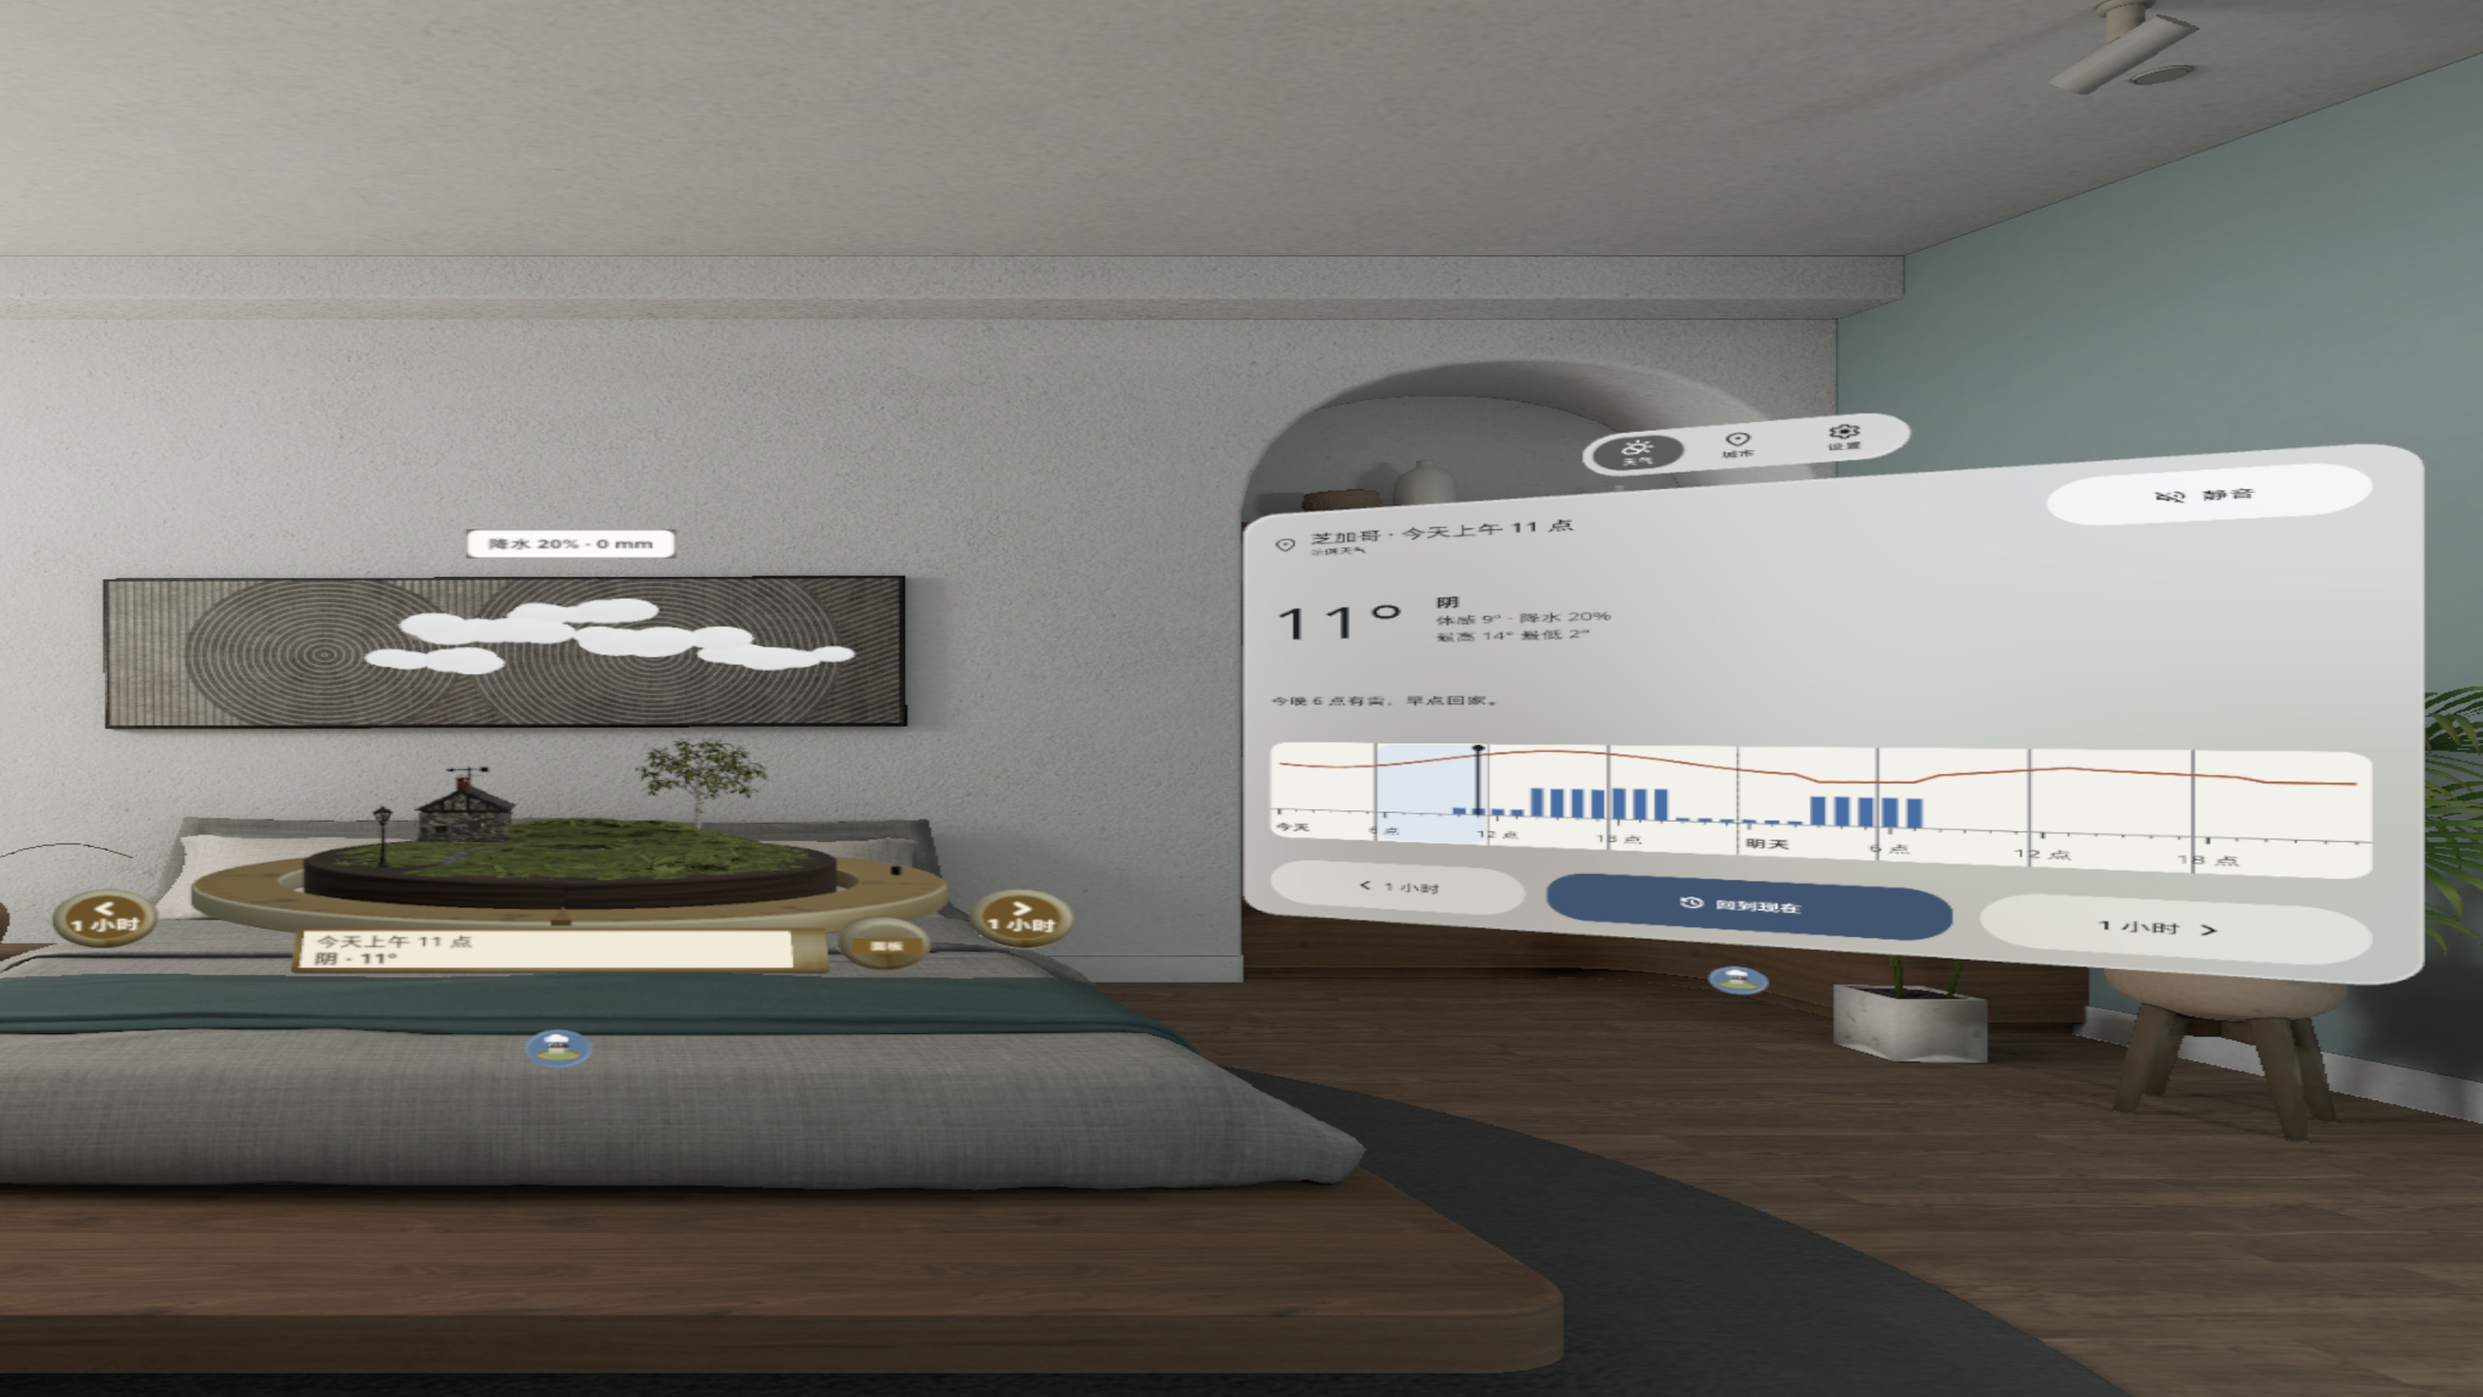
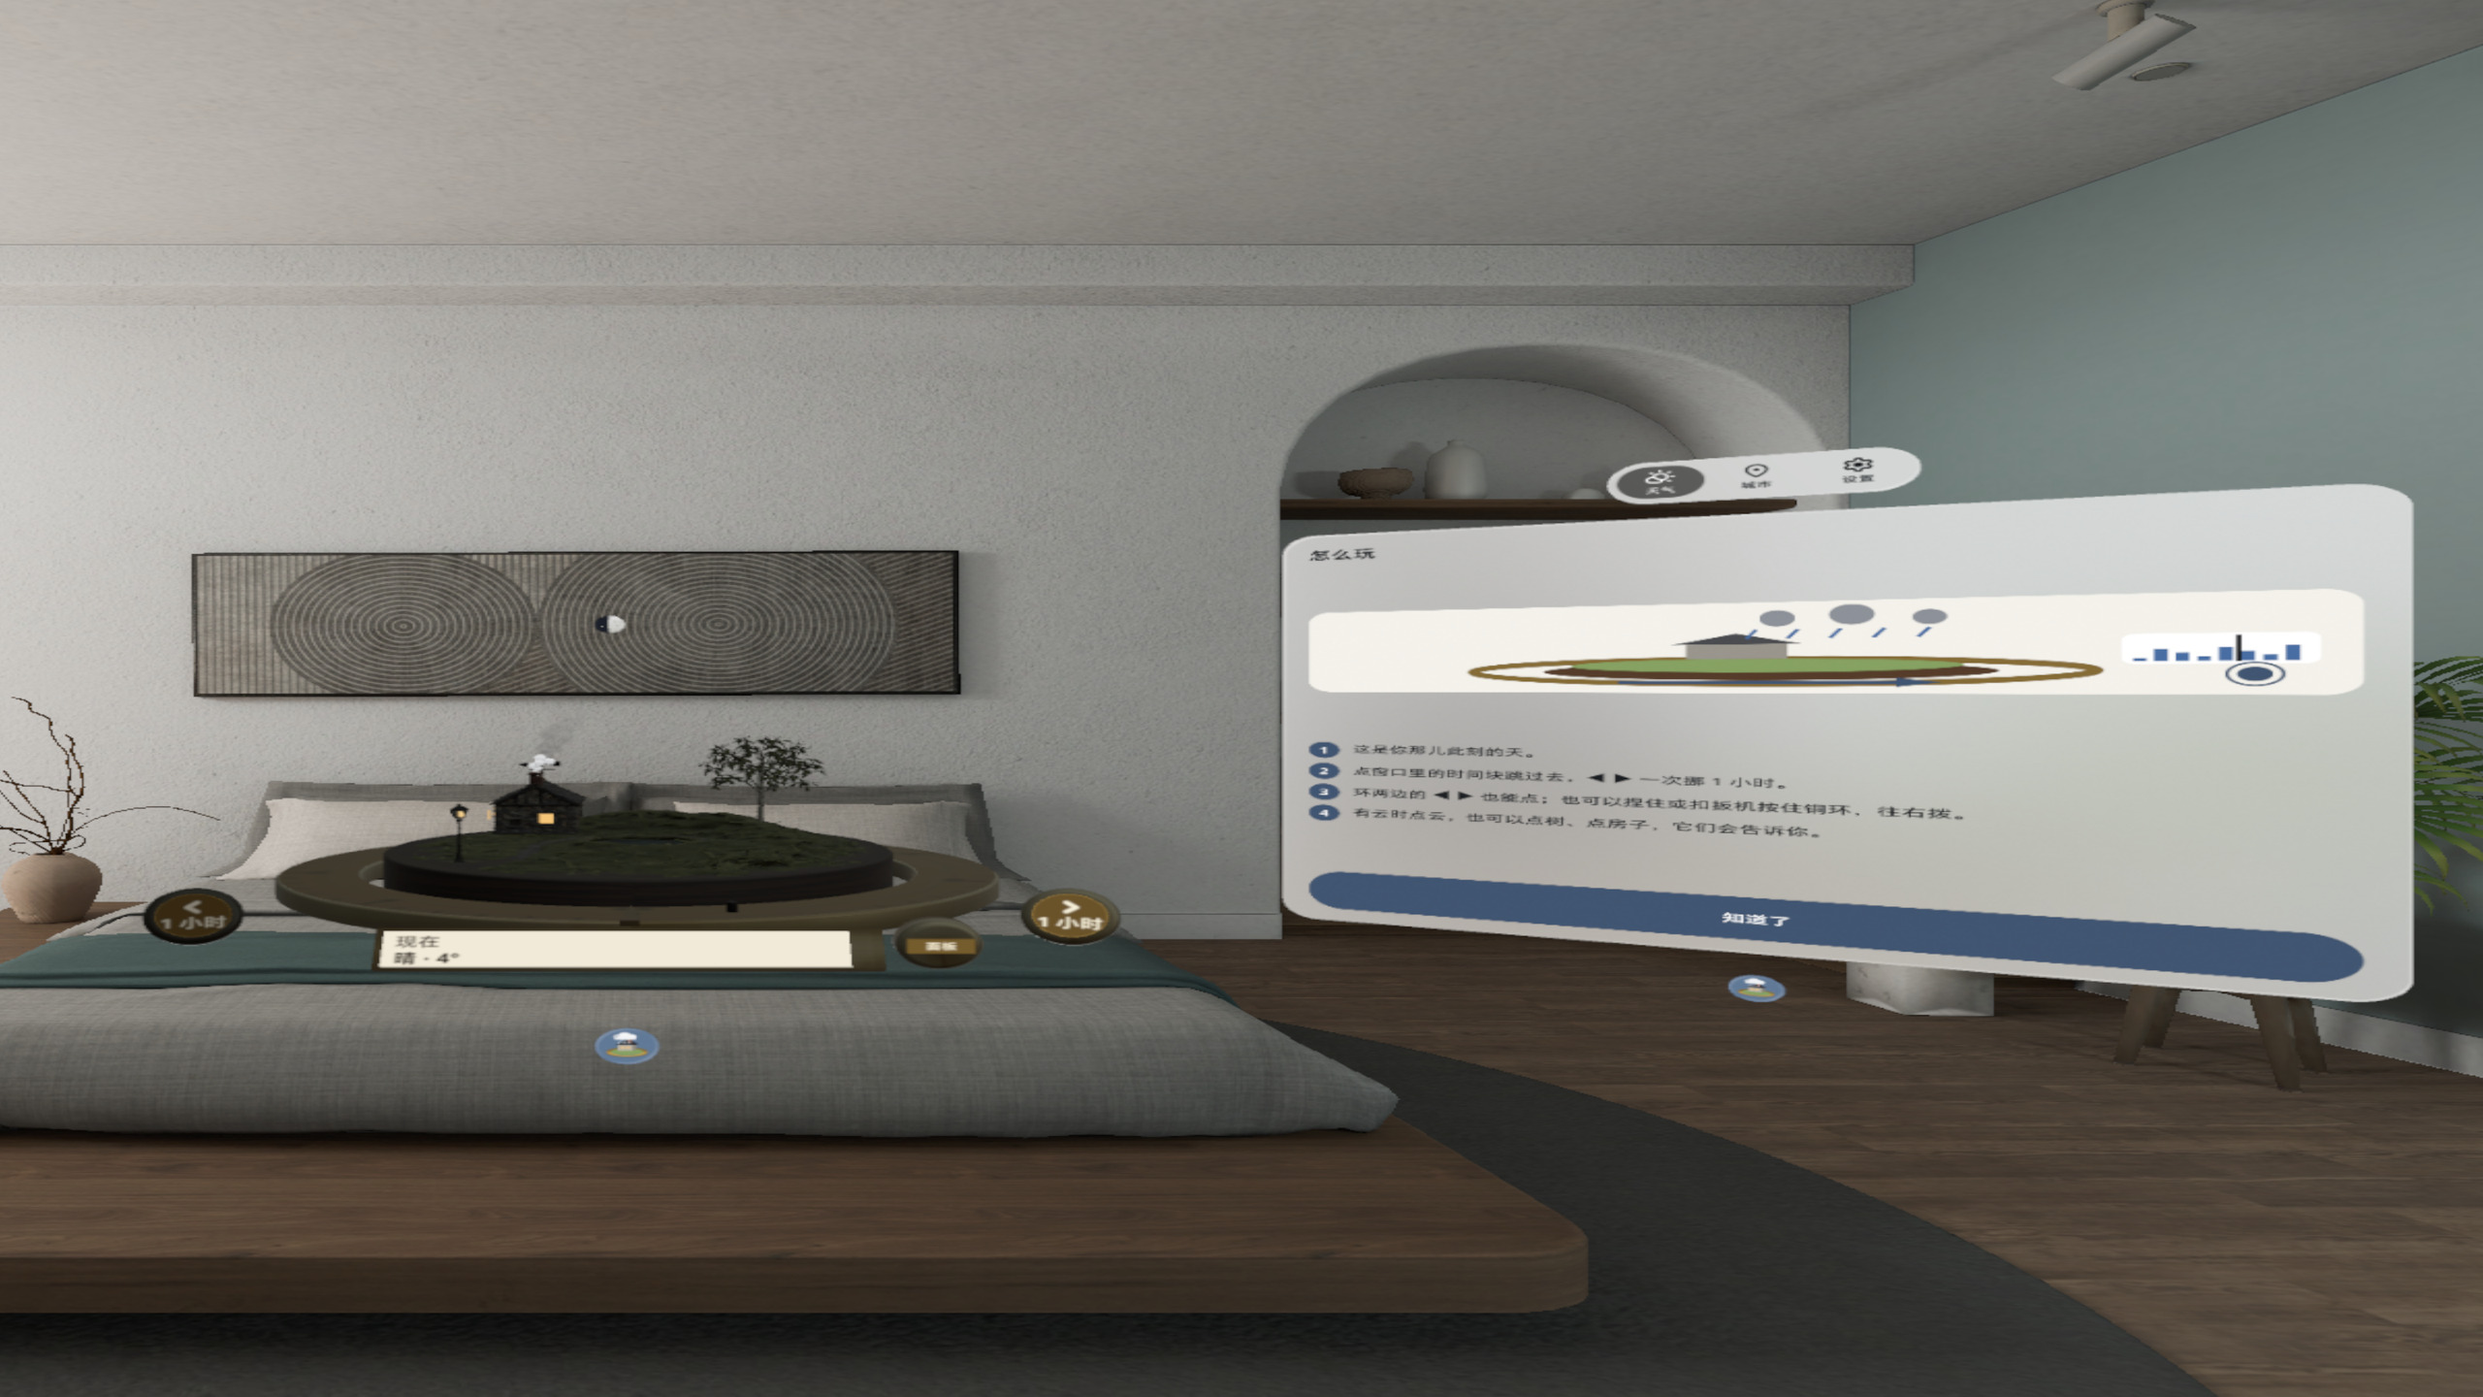
v0.1.6 release docs: bilingual README, CHANGELOG, new emulator screenshots

diff --git a/README.md b/README.md
@@ -2,36 +2,36 @@
 
 **中文** · [English](#english)
 
-![天气境：下午 4 点大雨，小景上空云聚雨落，右边控制窗写着「今晚 6 点有雷，早点回家」](docs/shot-01.jpg)
+![下午 4 点大雨：云聚雨落，读数牌「今天下午 4 点 · 大雨 · 14°」，控制窗「今晚 6 点有雷，早点回家」](docs/shot-01.jpg)
 
 桌上一座天气小景：拨一拨黄铜时间环，未来 48 小时的天就在小石屋上空演一遍。停下来，读数牌写着「明早 8 点 · 小雨 · 12°」，控制窗给一句：带不带伞、要不要加衣。
 
-PICO OS 6 空间应用（Shared Space，Spatial SDK 6.1.9）。一个体积窗口放小景，右边一块控制窗（天气 / 城市 / 设置）。当前版本 **v0.1.4**（太阳 / 月亮 / 云 / 烟换 Tripo 模型、雪花六角结晶）。
+PICO OS 6 空间应用（Shared Space，Spatial SDK 6.1.9）。一个体积窗口放小景，右边一块控制窗（天气 / 城市 / 设置）。当前版本 **v0.1.6**：位置先问系统（拒绝才按 IP 猜，机房 / VPN 的 IP 直接丢掉，请你选城市），「现在」按气象服务器的时间、写成「<城市> · 观测 hh:mm」，不看头显时区。
 
 - 捏住或扣扳机按住铜环左右拨，往右 = 更晚；松手带惯性，停在整点
 - 环两边的 3D ◀ ▶ 铜钮：点一下走 1 小时，按住连跳
 - 控制窗 8 个 6 小时时间块、[◀ 1 小时] [回到现在] [1 小时 ▶]，不拖也能到任何一小时
-- 云、雨、雪、雾、雷、风（树摆、烟斜、风向标）、昼夜、积雪都跟着那一小时变
+- 云、雨、雪、雾、雷、风（树摆、烟斜、风向标）、太阳月亮、昼夜、积雪都跟着那一小时变
 - 点云、点树、点房子，小牌告诉你降水、风、体感
-- 任意城市可搜（中文英文都行），最多存 3 个；离线用缓存或内置示例天
-- 中英双语即时切换，°C / °F，静音常显，设置里可直接退出应用
+- 第一次打开问一次粗略位置；任意城市可搜（中文英文都行），最多存 3 个；设置里 [用我现在的位置] 随时重新定位；离线用缓存或内置示例天
+- 中英双语即时切换，°C / °F，4 档声音，静音常显，设置里可直接退出应用
 
 ### 截图
 
 | | |
 |---|---|
-| ![首次打开：怎么玩 4 句](docs/shot-02.jpg) 首次打开：怎么玩 4 句 | ![点云：降水 20% · 0 mm](docs/shot-03.jpg) 上午 11 点阴天，点云问一句：降水 20% · 0 mm |
-| ![明早 7 点下雪，岛上积白](docs/shot-04.jpg) 明早 7 点下雪，岛上和屋顶积白 | ![下雨时点房子：体感温度](docs/shot-05.jpg) 下雨时点房子：体感温度 |
-| ![搜城市：London 第一条是伦敦](docs/shot-06.jpg) 搜城市：中文界面搜 London，第一条就是伦敦 | ![English UI](docs/shot-en-01.jpg) 英文界面 |
+| ![此刻的天：表头「圣荷西 · 观测 01:30」是那座城市的当地时间，按气象服务器时钟走，不看头显时区](docs/shot-02.jpg) 此刻的天：表头「圣荷西 · 观测 01:30」是那座城市的当地时间，按气象服务器时钟走，不看头显时区 | ![首次打开：控制窗「怎么玩」4 句 + 示意图](docs/shot-03.jpg) 首次打开：控制窗「怎么玩」4 句 + 示意图 |
+| ![上午 11 点阴天，点云问一句：「降水 20% · 0 mm」，云不挡小牌](docs/shot-04.jpg) 上午 11 点阴天，点云问一句：「降水 20% · 0 mm」，云不挡小牌 | ![拨到明早 7 点：下雪 −1°，小岛和屋顶积白](docs/shot-05.jpg) 拨到明早 7 点：下雪 −1°，小岛和屋顶积白 |
+| ![设置：语言、单位、4 档声音滑条、[用我现在的位置]、[退出应用]](docs/shot-06.jpg) 设置：语言、单位、4 档声音滑条、[用我现在的位置]、[退出应用] | |
 
-截图来自 PICO 模拟器（v0.1.3，调试命令驱动状态），**非真实手势录像 / 截图**；画面按 5120 × 2880 空间截图裁成 16:9。
+截图来自 PICO 模拟器（v0.1.6，5120 × 2880 空间截图原生裁 16:9，调试命令驱动状态；除「此刻的天」外都是内置示例天的数据），**非真实手势录像 / 截图**。
 
 ### 安装
 
-从 [Releases](https://github.com/kejing-dev/WeatherScape/releases) 下载 `WeatherScape-v0.1.3.apk`。它是 `assembleRelease` 出的**未签名**包（给应用商店托管签名用），直接装到设备前要自己签名，或者本地构建 debug 包：
+从 [Releases](https://github.com/kejing-dev/WeatherScape/releases) 下载 `WeatherScape-v0.1.6.apk`。它是 `assembleRelease` 出的**未签名**包（给应用商店托管签名用），直接装到设备前要自己签名，或者本地构建 debug 包：
 
 ```bash
-adb install -r WeatherScape-v0.1.3.apk        # 已签名后
+adb install -r WeatherScape-v0.1.6.apk        # 已签名后
 pico-cli app launch io.embodit.weatherscape
 ```
 
@@ -39,43 +39,62 @@ pico-cli app launch io.embodit.weatherscape
 
 ```bash
 export JAVA_HOME=<JDK 17+>
-./gradlew assembleDebug :app:testDebugUnitTest   # 调试包 + 78 条单测
+./gradlew assembleDebug :app:testDebugUnitTest   # 调试包 + 单测
 ./gradlew assembleRelease                         # 未签名 release 包
 ```
 
-### 已知问题（v0.1.3）
+### 权限与网络
 
-- 环面上的小时刻度和日名在近乎平视时不好读；同一时间在读数牌和控制窗上都有。
-- 控制窗的 ▶ 长按 2 秒松手时会多走 1 小时（3D ◀ ▶ 没有这个问题）。
-- 小景放大后的大小、白云亮度、3D 钮的手感还等真机确认。
+- 粗略位置（ACCESS_COARSE_LOCATION）：只用来找最近的城市；拒绝也能用，自己选城市即可
+- 网络：Open-Meteo 预报；没有系统定位时按 IP 猜城市（ipapi.co → ipwho.is → ipinfo.io），系统定位的坐标用 BigDataCloud 反查城市名。都不用账号、不用 key
+
+### 已知问题（v0.1.6）
+
+- 权限框 60 秒没回答会按「不允许」处理；之后再点 [允许] 不会当场定位，要到设置里点 [用我现在的位置]。
+- 离线时已经在「现在」，[回到现在] 仍是高亮。
+- 冷启动加载模型较慢。
 
 天气数据：Weather data by [Open-Meteo.com](https://open-meteo.com)（CC BY 4.0，免费层限非商业）。声音：CC0 录音（Kenney、freesound）。版本记录见 [CHANGELOG.md](CHANGELOG.md)。
 
 ## English
 
-![WeatherScape: heavy rain at 4 PM over the diorama, the control window says storms tonight](docs/shot-en-01.jpg)
+![4 PM heavy rain: clouds gather, the readout says "Today 4 PM · Heavy rain · 14°"](docs/shot-en-01.jpg)
 
 A weather diorama for your desk. Turn the brass ring and the next 48 hours play out over a little stone cottage: clouds,
 rain, snow, fog, storms, wind and night. Stop anywhere and the readout says "Tomorrow 8 AM · Light rain · 54°" while the
 control window tells you whether to grab an umbrella.
 
 PICO OS 6 spatial app (Shared Space, Spatial SDK 6.1.9): one volume for the diorama, one control window on its right
-(Weather / Cities / Settings). Current version **v0.1.3**.
+(Weather / Cities / Settings). Current version **v0.1.6**: location asks the system first (IP only as a fallback, and
+data-centre / VPN IPs are discarded so you pick a city instead); "now" follows the weather server's clock and reads
+"<city> · as of hh:mm", independent of the headset's time zone.
 
 - Pinch or hold the trigger on the brass ring and turn it; right = later. It coasts and stops on the hour.
 - 3D ◀ ▶ brass buttons beside the ring: tap for one hour, hold to keep going.
 - The control window has eight 6-hour blocks plus [◀ 1 hr] [Back to now] [1 hr ▶], so every hour is reachable without dragging.
 - Tap the cloud, the tree or the house for rain chance, wind or feels-like.
-- Search any city (Chinese or English), keep up to three; offline it falls back to the cache or a built-in sample day.
-- Chinese / English switch instantly, °C / °F, always-visible mute, exit from Settings.
+- Approximate location once on first launch; search any city (Chinese or English), keep up to three; [Use my location] in Settings; offline it falls back to the cache or a built-in sample day.
+- Chinese / English switch instantly, °C / °F, 4-step sound, always-visible mute, exit from Settings.
 
-Screenshots come from the PICO emulator (v0.1.3, states driven by debug commands), **not real hand-gesture footage**.
+| | |
+|---|---|
+| ![Right now: the header "San Jose · as of hh:mm" is the city's local time from the weather server, not the headset's time zone](docs/shot-en-02.jpg) Right now: the header "San Jose · as of hh:mm" is the city's local time from the weather server, not the headset's time zone | ![First launch: the How it works card](docs/shot-en-03.jpg) First launch: the How it works card |
+| ![11 AM overcast, tap the cloud: rain chance and amount](docs/shot-en-04.jpg) 11 AM overcast, tap the cloud: rain chance and amount | ![Tomorrow 7 AM: snow at −1°, the island turns white](docs/shot-en-05.jpg) Tomorrow 7 AM: snow at −1°, the island turns white |
+| ![Settings: language, units, 4-step sound slider, Use my location, Exit app](docs/shot-en-06.jpg) Settings: language, units, 4-step sound slider, [Use my location], [Exit app] | |
 
-**Install:** download `WeatherScape-v0.1.3.apk` from Releases. It is the **unsigned** `assembleRelease` build (for store
-signing); sign it yourself before `adb install -r WeatherScape-v0.1.3.apk`, or build the debug APK, then
+Screenshots come from the PICO emulator (v0.1.6, native 16:9 crops of 5120 × 2880 spatial captures, states driven by
+debug commands; all but "Right now" use the built-in sample day), **not real hand-gesture footage**.
+
+**Install:** download `WeatherScape-v0.1.6.apk` from Releases. It is the **unsigned** `assembleRelease` build (for store
+signing); sign it yourself before `adb install -r WeatherScape-v0.1.6.apk`, or build the debug APK, then
 `pico-cli app launch io.embodit.weatherscape`.
 
-**Known issues (v0.1.3):** hour ticks on the ring are hard to read at a flat viewing angle (the readout and the window
-show the same time); holding the window's ▶ for 2 s adds one extra hour on release (the 3D buttons don't).
+**Permissions and network:** approximate location (only to find the nearest city; deny it and pick a city yourself);
+Open-Meteo forecasts; IP lookup (ipapi.co → ipwho.is → ipinfo.io) only when system location is unavailable; BigDataCloud
+reverse geocoding for the system fix. No accounts, no keys.
+
+**Known issues (v0.1.6):** if the permission dialog goes unanswered for 60 s it counts as denied, and tapping [Allow]
+later does not locate right away — use [Use my location] in Settings; offline, [Back to now] stays highlighted even at
+"now"; models load slowly on a cold start.
 
 Weather data by Open-Meteo.com (CC BY 4.0). Sounds: CC0 recordings. See [CHANGELOG.md](CHANGELOG.md).

diff --git a/CHANGELOG.md b/CHANGELOG.md
@@ -1,5 +1,26 @@
 # 更新记录 · Changelog
 
+## v0.1.6 · 2026-11-17
+
+**中文**
+- 位置先问系统：第一次打开会问一次粗略位置权限，允许就按系统定位找最近的城市；拒绝或没定到才按网络 IP 猜，IP 属于云服务 / 机房 / VPN 的直接丢掉，不再把你放到几百公里外的机房城市，这时会请你去「城市」页选一个，并给 [去设置]
+- 「现在」按气象服务器的时间算，不读头显的时区：表头写「<城市> · 观测 hh:mm」，是那座城市的当地时间；头显时区设错了，城市、气温、时间都不受影响
+- 设置里加 [用我现在的位置]，随时重新定位
+- 点树、点房子、点天空时，云让开小牌，读数不再被挡
+- 声音改成 4 档滑条，点或拖都会换档
+
+**English**
+- Location asks the system first: on first launch the app asks once for approximate location and, if allowed, picks the nearest city. Only when that is denied or fails does it guess from your IP, and IPs that belong to cloud / data-centre / VPN providers are discarded, so you no longer land in a far-away server town. You are then asked to pick a city, with a [Settings] shortcut.
+- "Now" follows the weather server's clock, not the headset's time zone: the header reads "<city> · as of hh:mm" in that city's local time, so a wrong headset time zone no longer shifts the city, temperature or hour.
+- Settings has [Use my location] to locate again at any time.
+- Clouds move out of the way of the tree / house / sky tags.
+- Sound is a 4-step slider; tapping or dragging both change the step.
+
+**已知问题 / Known issues**
+- 权限框 60 秒没回答会按「不允许」处理，之后再点 [允许] 不会当场定位，要到设置里点 [用我现在的位置] / If the permission dialog goes unanswered for 60 s it counts as denied; tapping [Allow] afterwards does not locate right away — use [Use my location] in Settings.
+- 离线时已经在「现在」，[回到现在] 仍是高亮 / Offline, [Back to now] stays highlighted even though you are already at "now".
+- 冷启动加载模型较慢 / Models load slowly on a cold start.
+
 ## v0.1.5 · 2026-11-14
 
 **中文**
